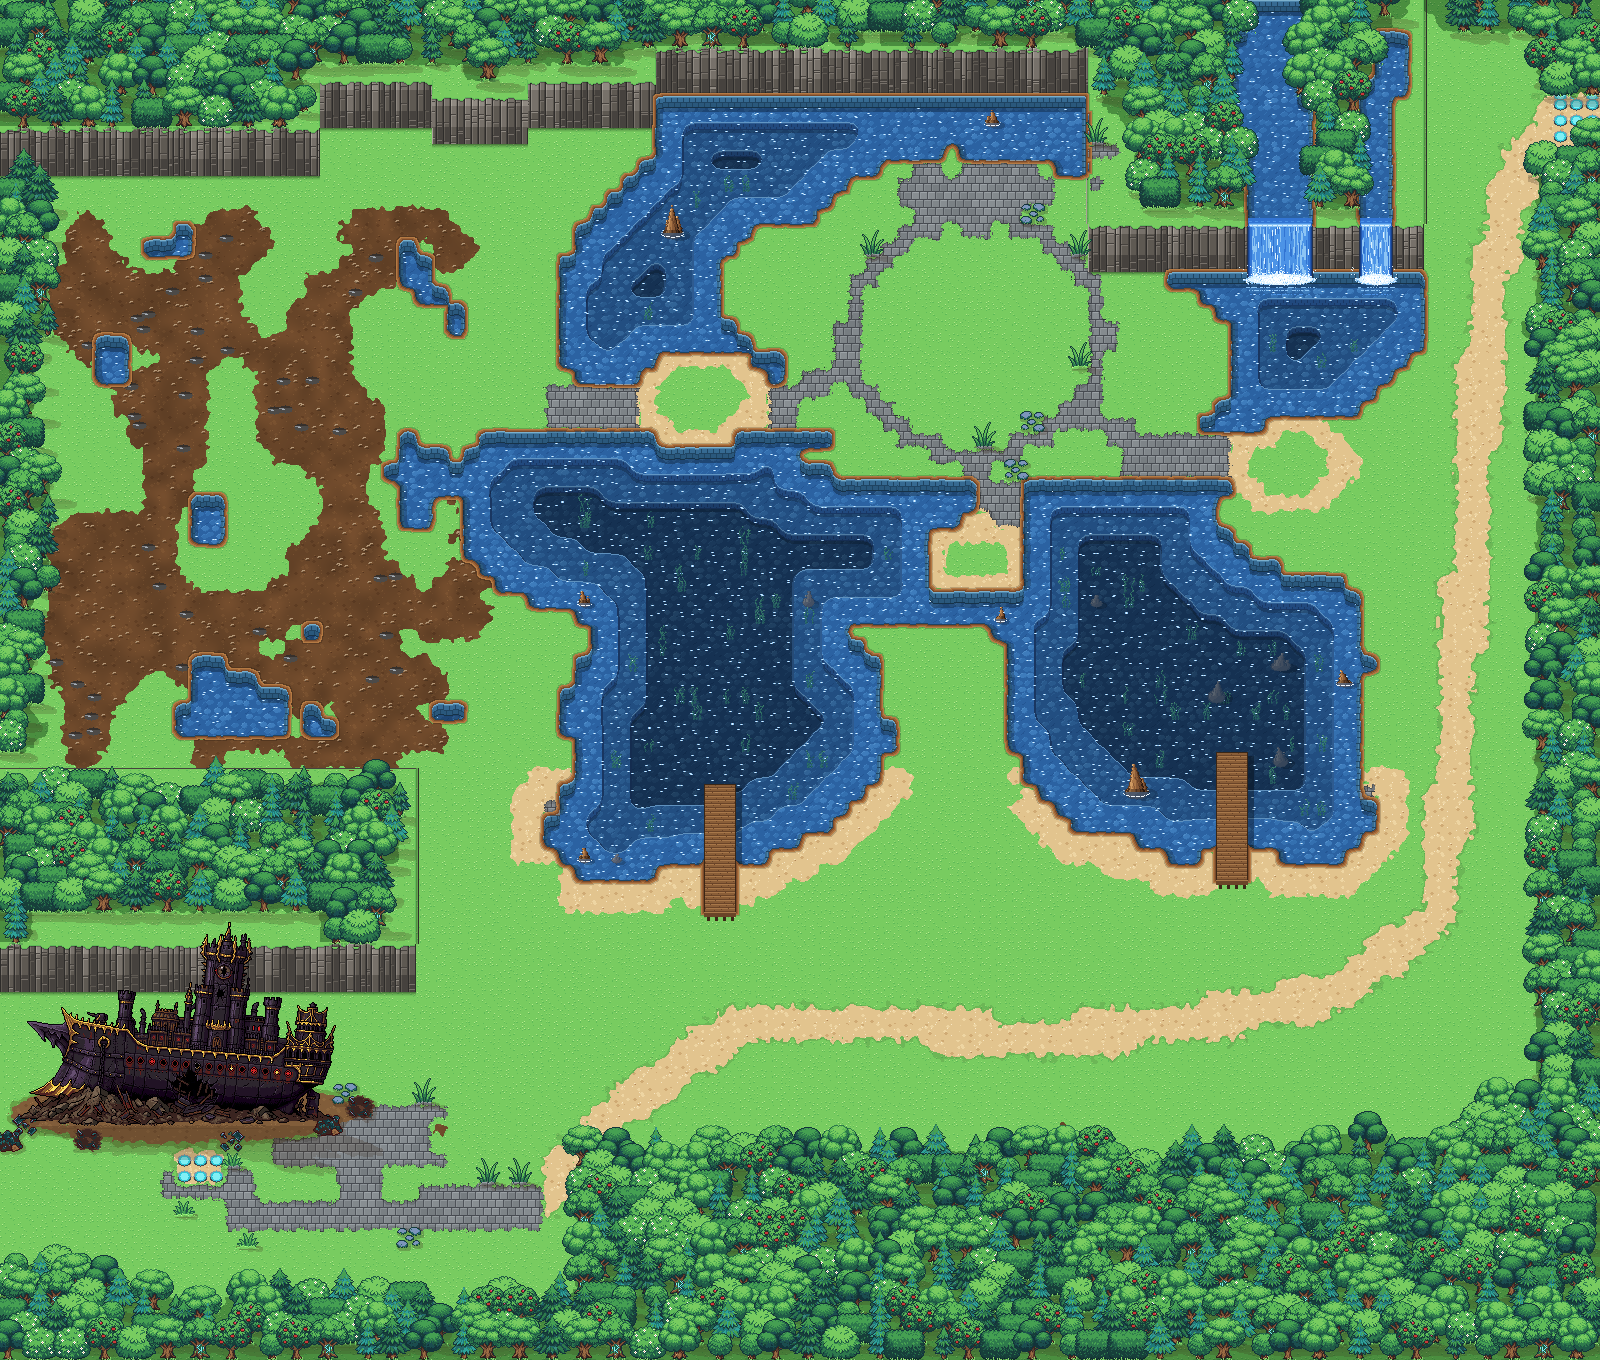
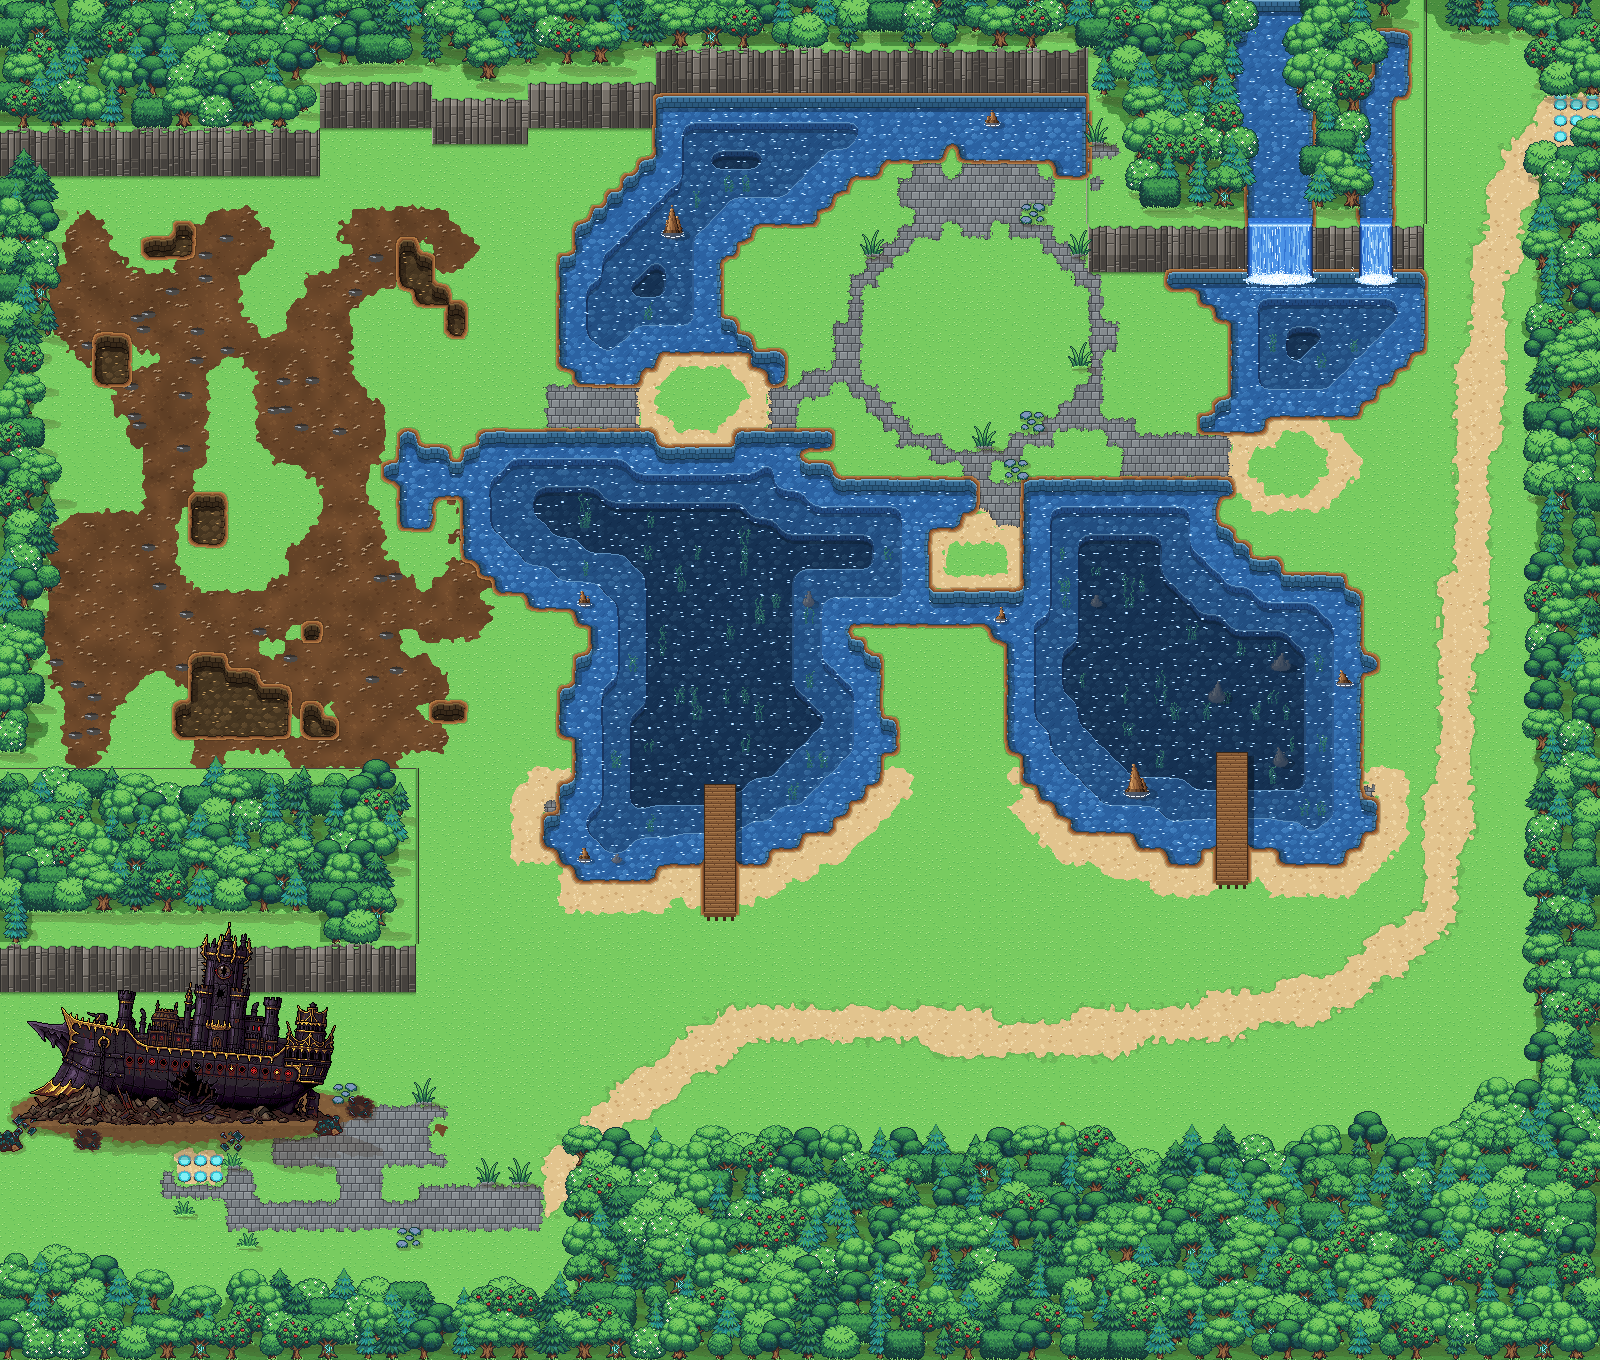
Karte 27: Pfuetzen im Moor oben links als braunes Schlammwasser
Claude-Session: https://claude.ai/code/session_01SaoYHKhnro4LFcPJqjaPsq

diff --git a/tools/karte27_bauen.py b/tools/karte27_bauen.py
@@ -130,6 +130,33 @@ def bauen(frame=None, speichern=True):
     steg_t = np.array([[ch == 'b' for ch in z] for z in cls])
     xm |= np.kron(steg_t, np.ones((T, T), bool))                    # Stege stehen ueber dem Wasser
     a = np.array(wasser_vertieft.vertiefen(Image.fromarray(a), np.ones_like(xm), frame, maske=xm).convert('RGB'))
+    # Pfuetzen im Moor oben links: braunes Schlammwasser (Nutzer). Kleine Wasserflaechen, die an Moorkacheln grenzen
+    from collections import deque
+    from PIL import ImageFilter as _IF
+    f_t = np.array([[ch == 'f' for ch in z] for z in cls])
+    nah_f = np.array(Image.fromarray(f_t.astype(np.uint8) * 255).filter(_IF.MaxFilter(7))) > 0
+    moor_t = np.zeros_like(x_t)
+    gesehen = np.zeros_like(x_t)
+    for y in range(rows):
+        for x in range(cols):
+            if x_t[y, x] and not gesehen[y, x]:
+                komp, q = [], deque([(y, x)]); gesehen[y, x] = True
+                while q:
+                    cy, cx = q.popleft(); komp.append((cy, cx))
+                    for yy, xx in ((cy - 1, cx), (cy + 1, cx), (cy, cx - 1), (cy, cx + 1)):
+                        if 0 <= yy < rows and 0 <= xx < cols and x_t[yy, xx] and not gesehen[yy, xx]:
+                            gesehen[yy, xx] = True; q.append((yy, xx))
+                if len(komp) < 60 and any(nah_f[cy, cx] for cy, cx in komp):
+                    for cy, cx in komp:
+                        moor_t[cy, cx] = True
+    moor_px = (np.kron(moor_t, np.ones((T, T), np.uint8)) * 255).astype(np.uint8)
+    moor_w = xm & (np.array(Image.fromarray(moor_px).filter(_IF.MaxFilter(13))) > 0)
+    if moor_w.any():
+        af = a[moor_w].astype(np.float32)
+        l = af.mean(axis=1, keepdims=True)
+        l = (l - l.mean()) * 1.5 + l.mean()                            # Wellen/Glanz deutlicher, Grundton dunkler als der Schlamm
+        braun_w = np.concatenate([l * 0.62 + 6, l * 0.5 + 2, l * 0.3 + 2], axis=1)
+        a[moor_w] = np.clip(braun_w, 0, 255).astype(np.uint8)
     pmb = maske(cls, 'p') & xm                                       # Steinbruecken ueber dem Wasser (gerade Kanten)
     a[pmb] = pf[pmb]
     img = Image.fromarray(a).convert('RGBA')
